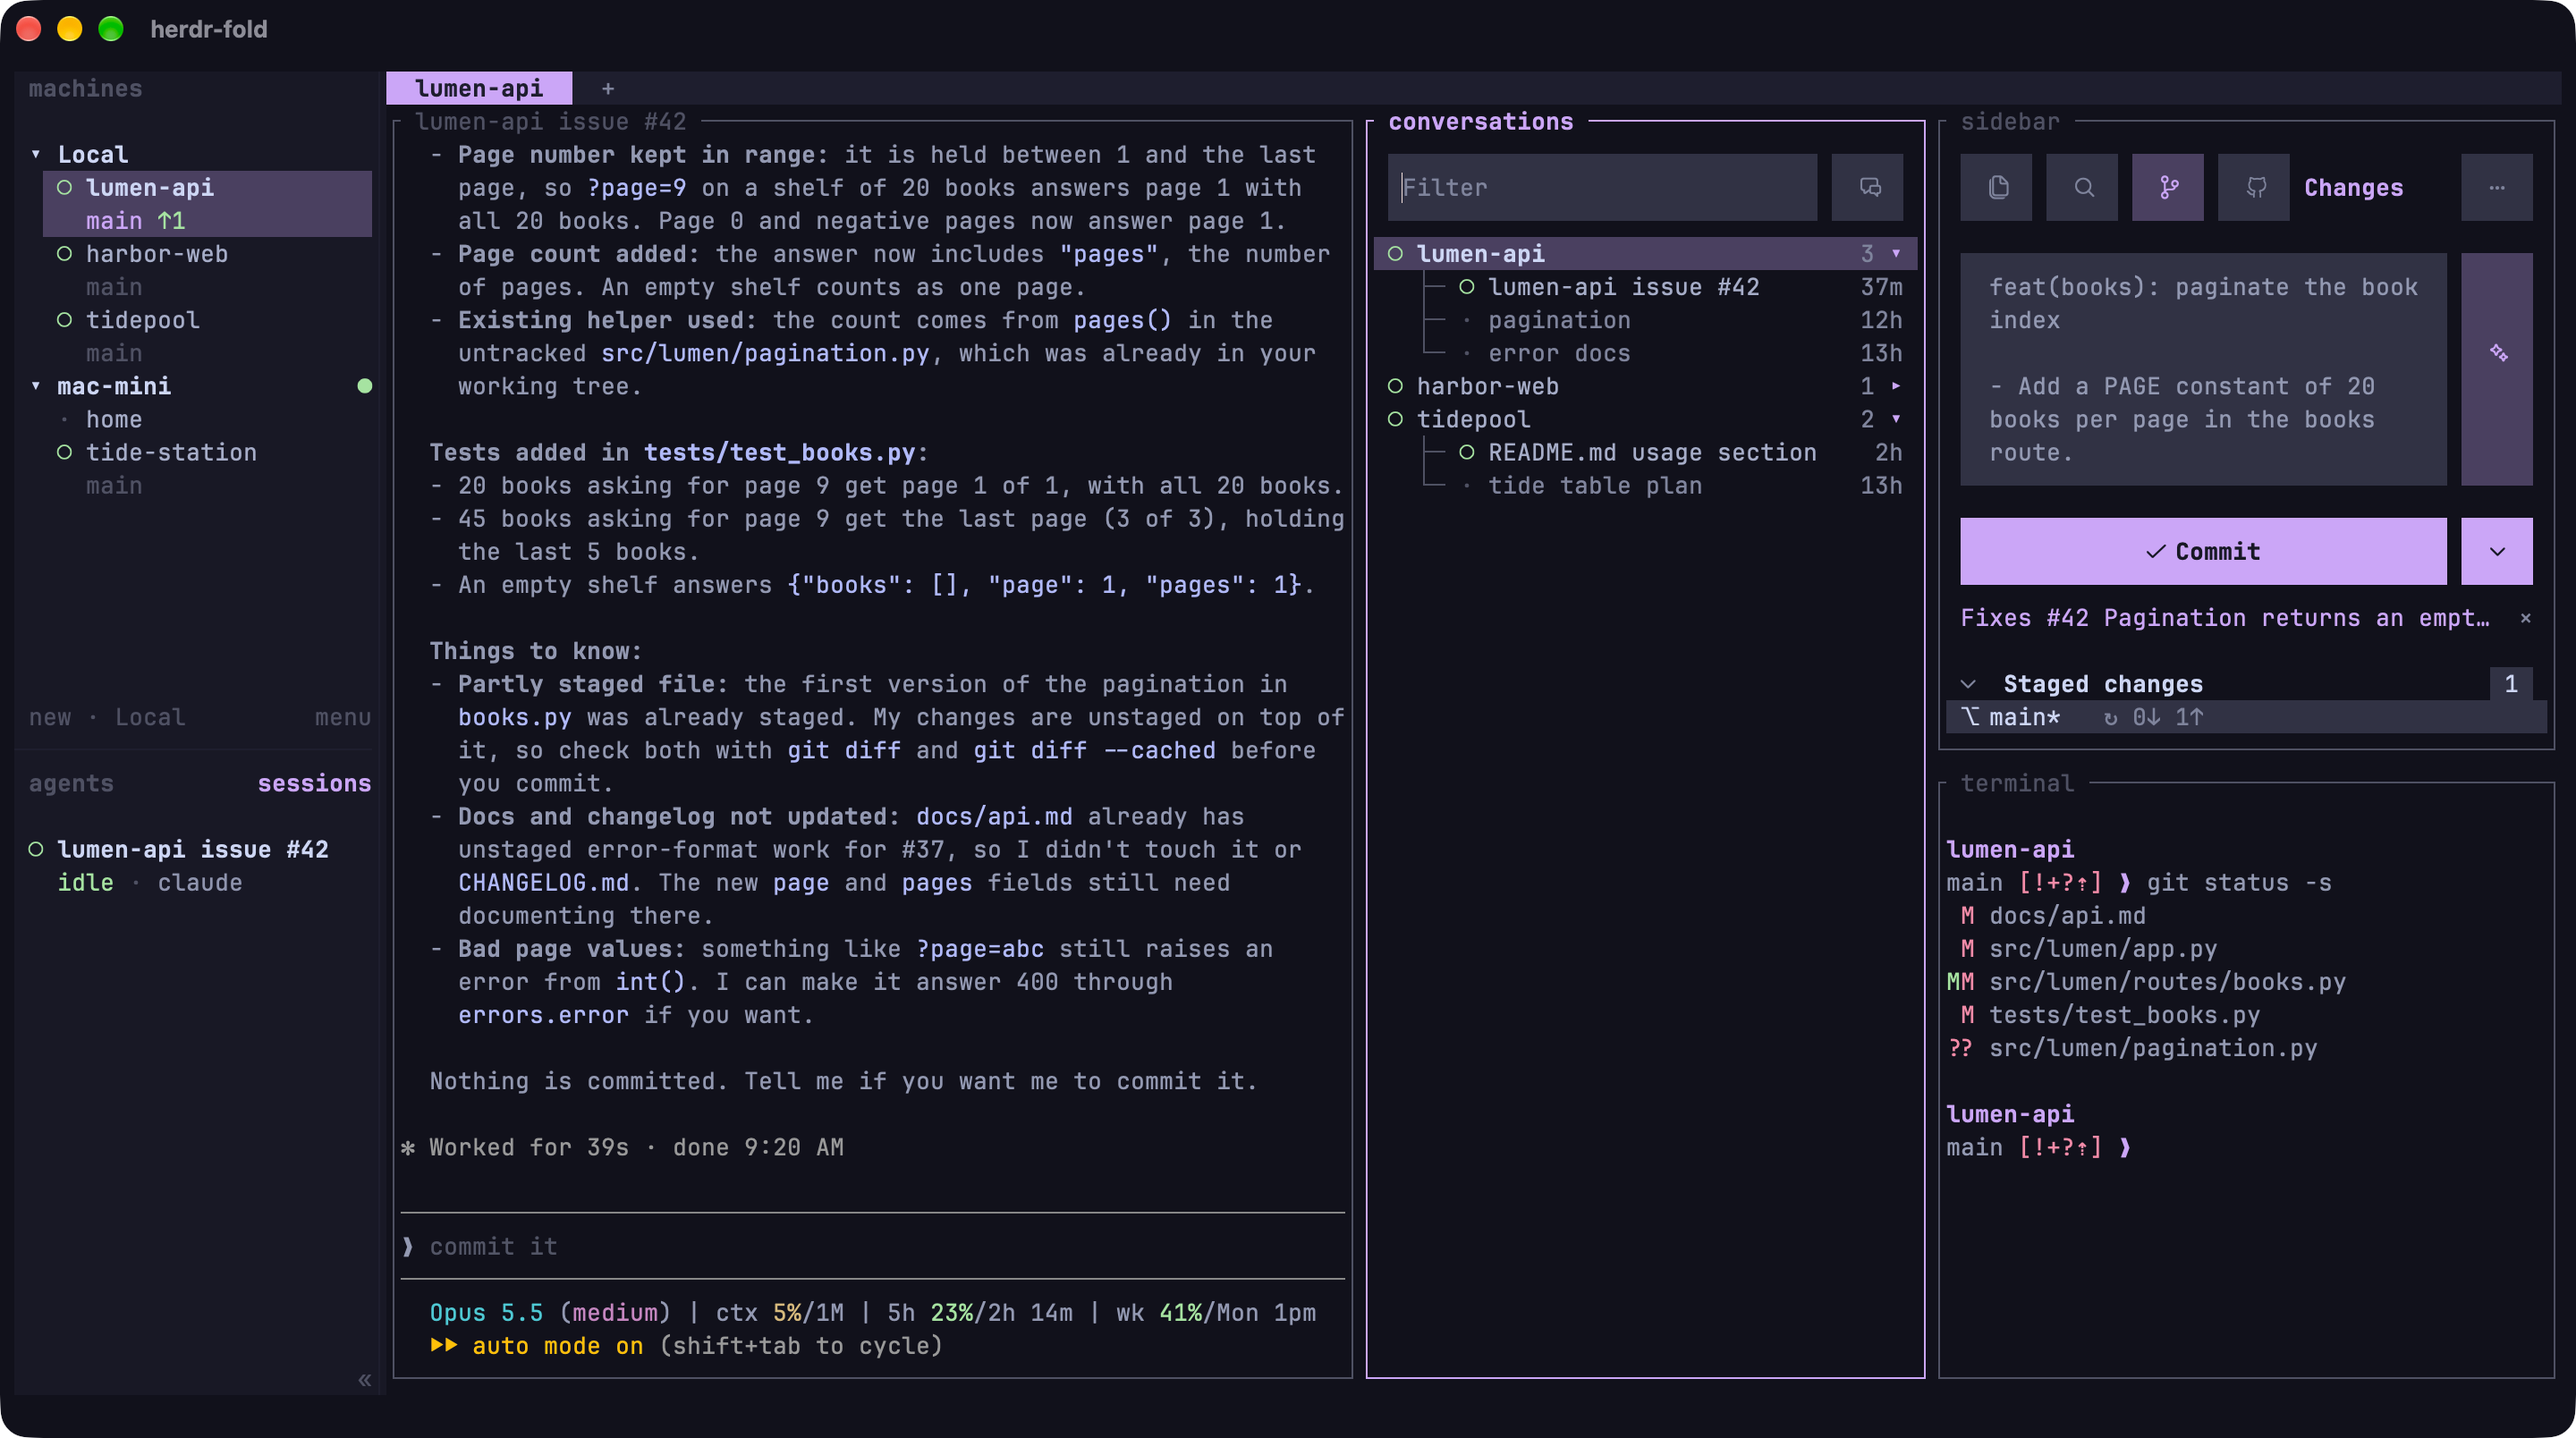
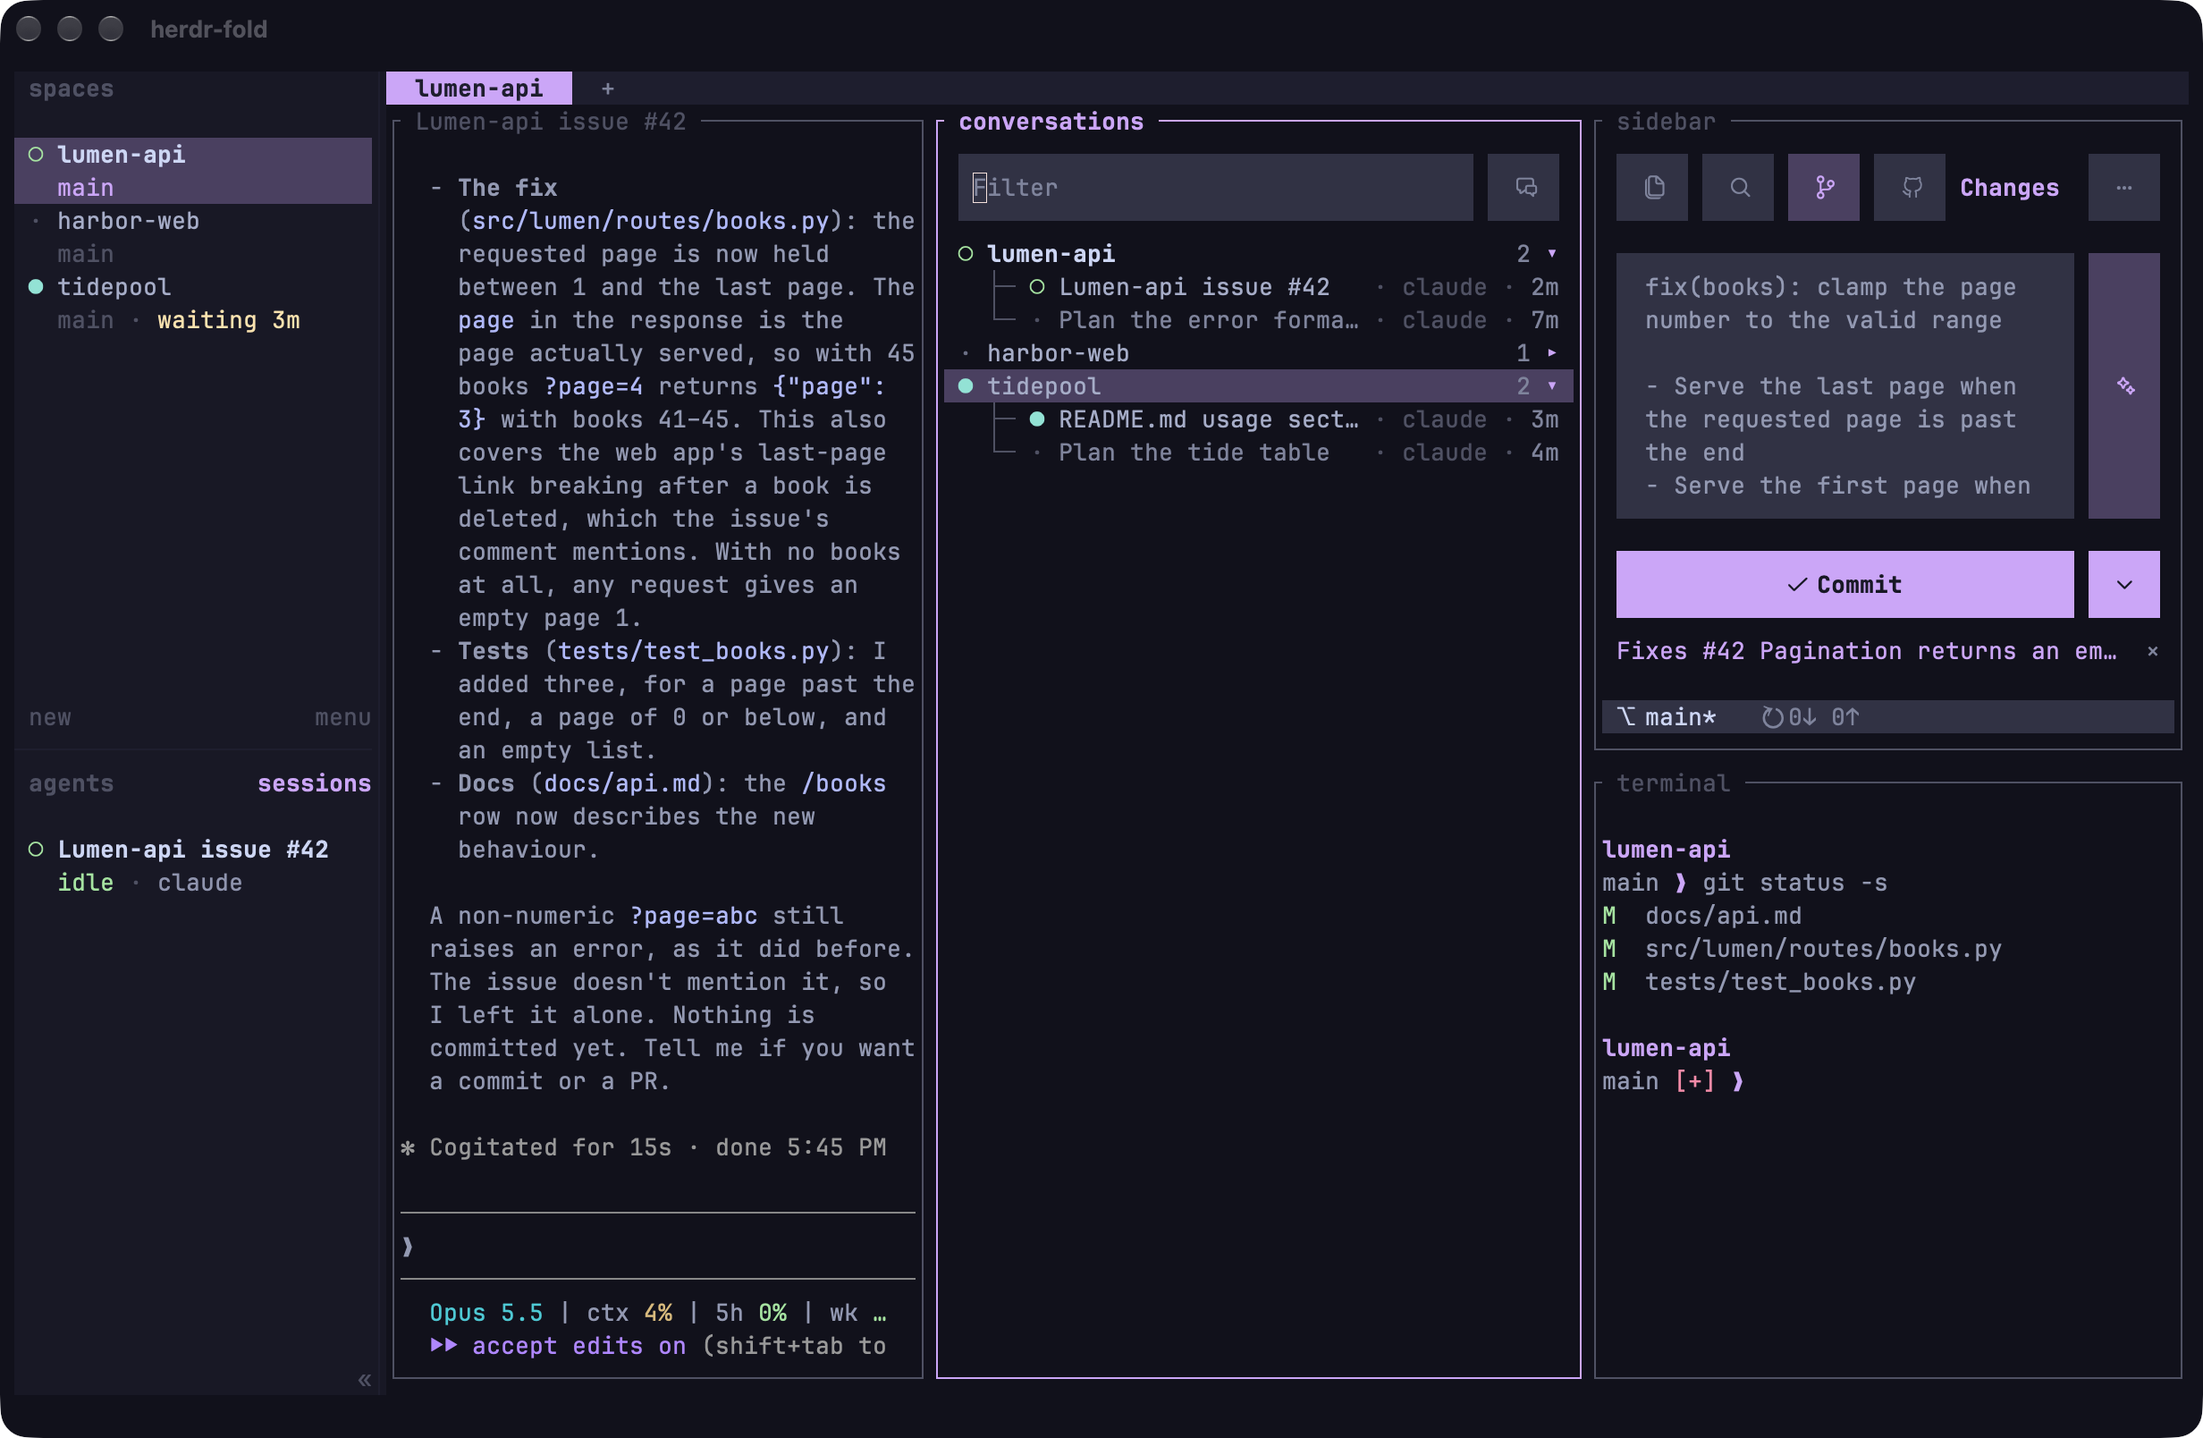
docs: retake the hero, preview and conversations pictures
- Retake hero.webp, preview.webp and conversations.webp from a demo with
  invented names and a real Claude, every time on screen in UTC
- Show the current views: Spaces with how long an agent has waited, the
  Conversations column, the new Changes view
- Describe the new hero picture in the README's alt text

diff --git a/README.md b/README.md
@@ -13,9 +13,10 @@ Created by [princesshu](https://github.com/princesshu).
 https://img.shields.io/badge/platforms-macOS%2015%2B%20Apple%20silicon%20%7C%20Linux%20and%20Windows%20over%20SSH-lightgrey)
 ![herdr 0.9.5+](https://img.shields.io/badge/herdr-0.9.5%2B-lightgrey)
 
-![A workspace of three under Spaces, a remote machine's below them, Claude's report of an issue it fixed on the left
-above its status line (model, context, limits), the Conversations column collapsed to a rail, and on the right the
-sidebar's Changes view with the message Claude wrote and the issue it closes, above a terminal](docs/media/hero.webp)
+![Three workspaces under Spaces, one saying how long its agent has waited; Claude's report of an issue it fixed,
+above its status line (model, context, limits); the Conversations column with each workspace's conversations; and on
+the right the sidebar's Changes view with the message Claude wrote and the issue it closes,
+above a terminal](docs/media/hero.webp)
 
 ## What you get
 
